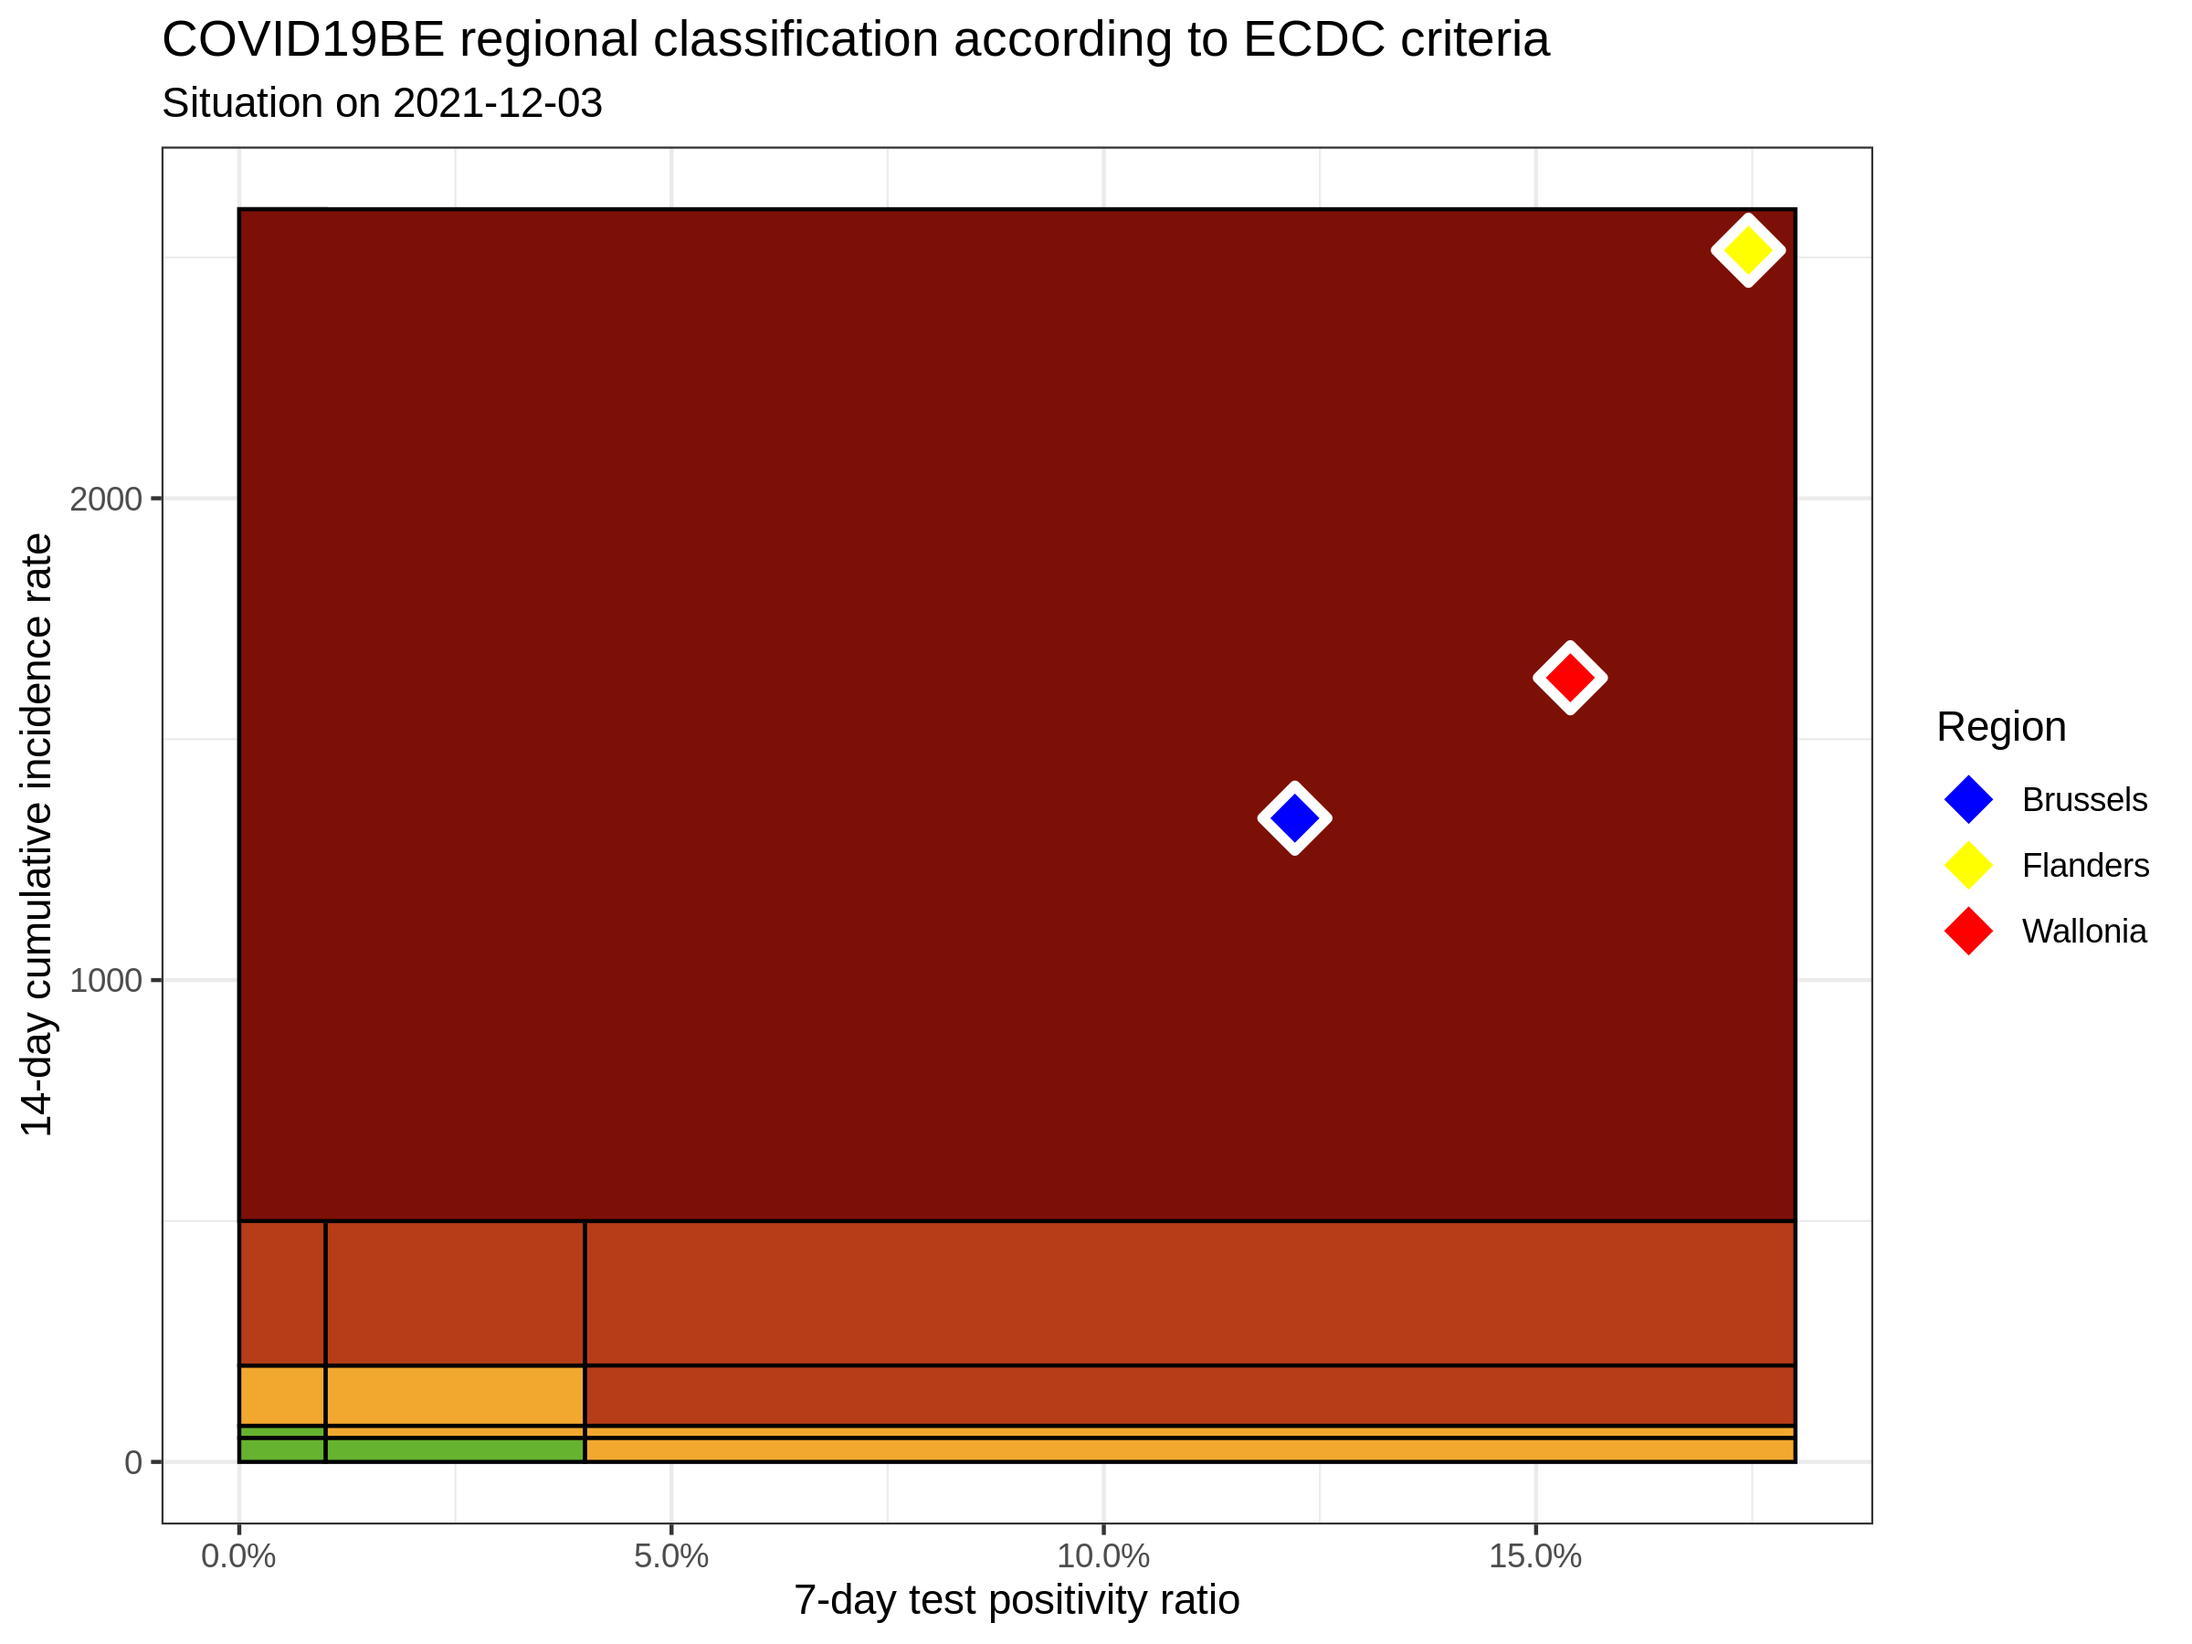
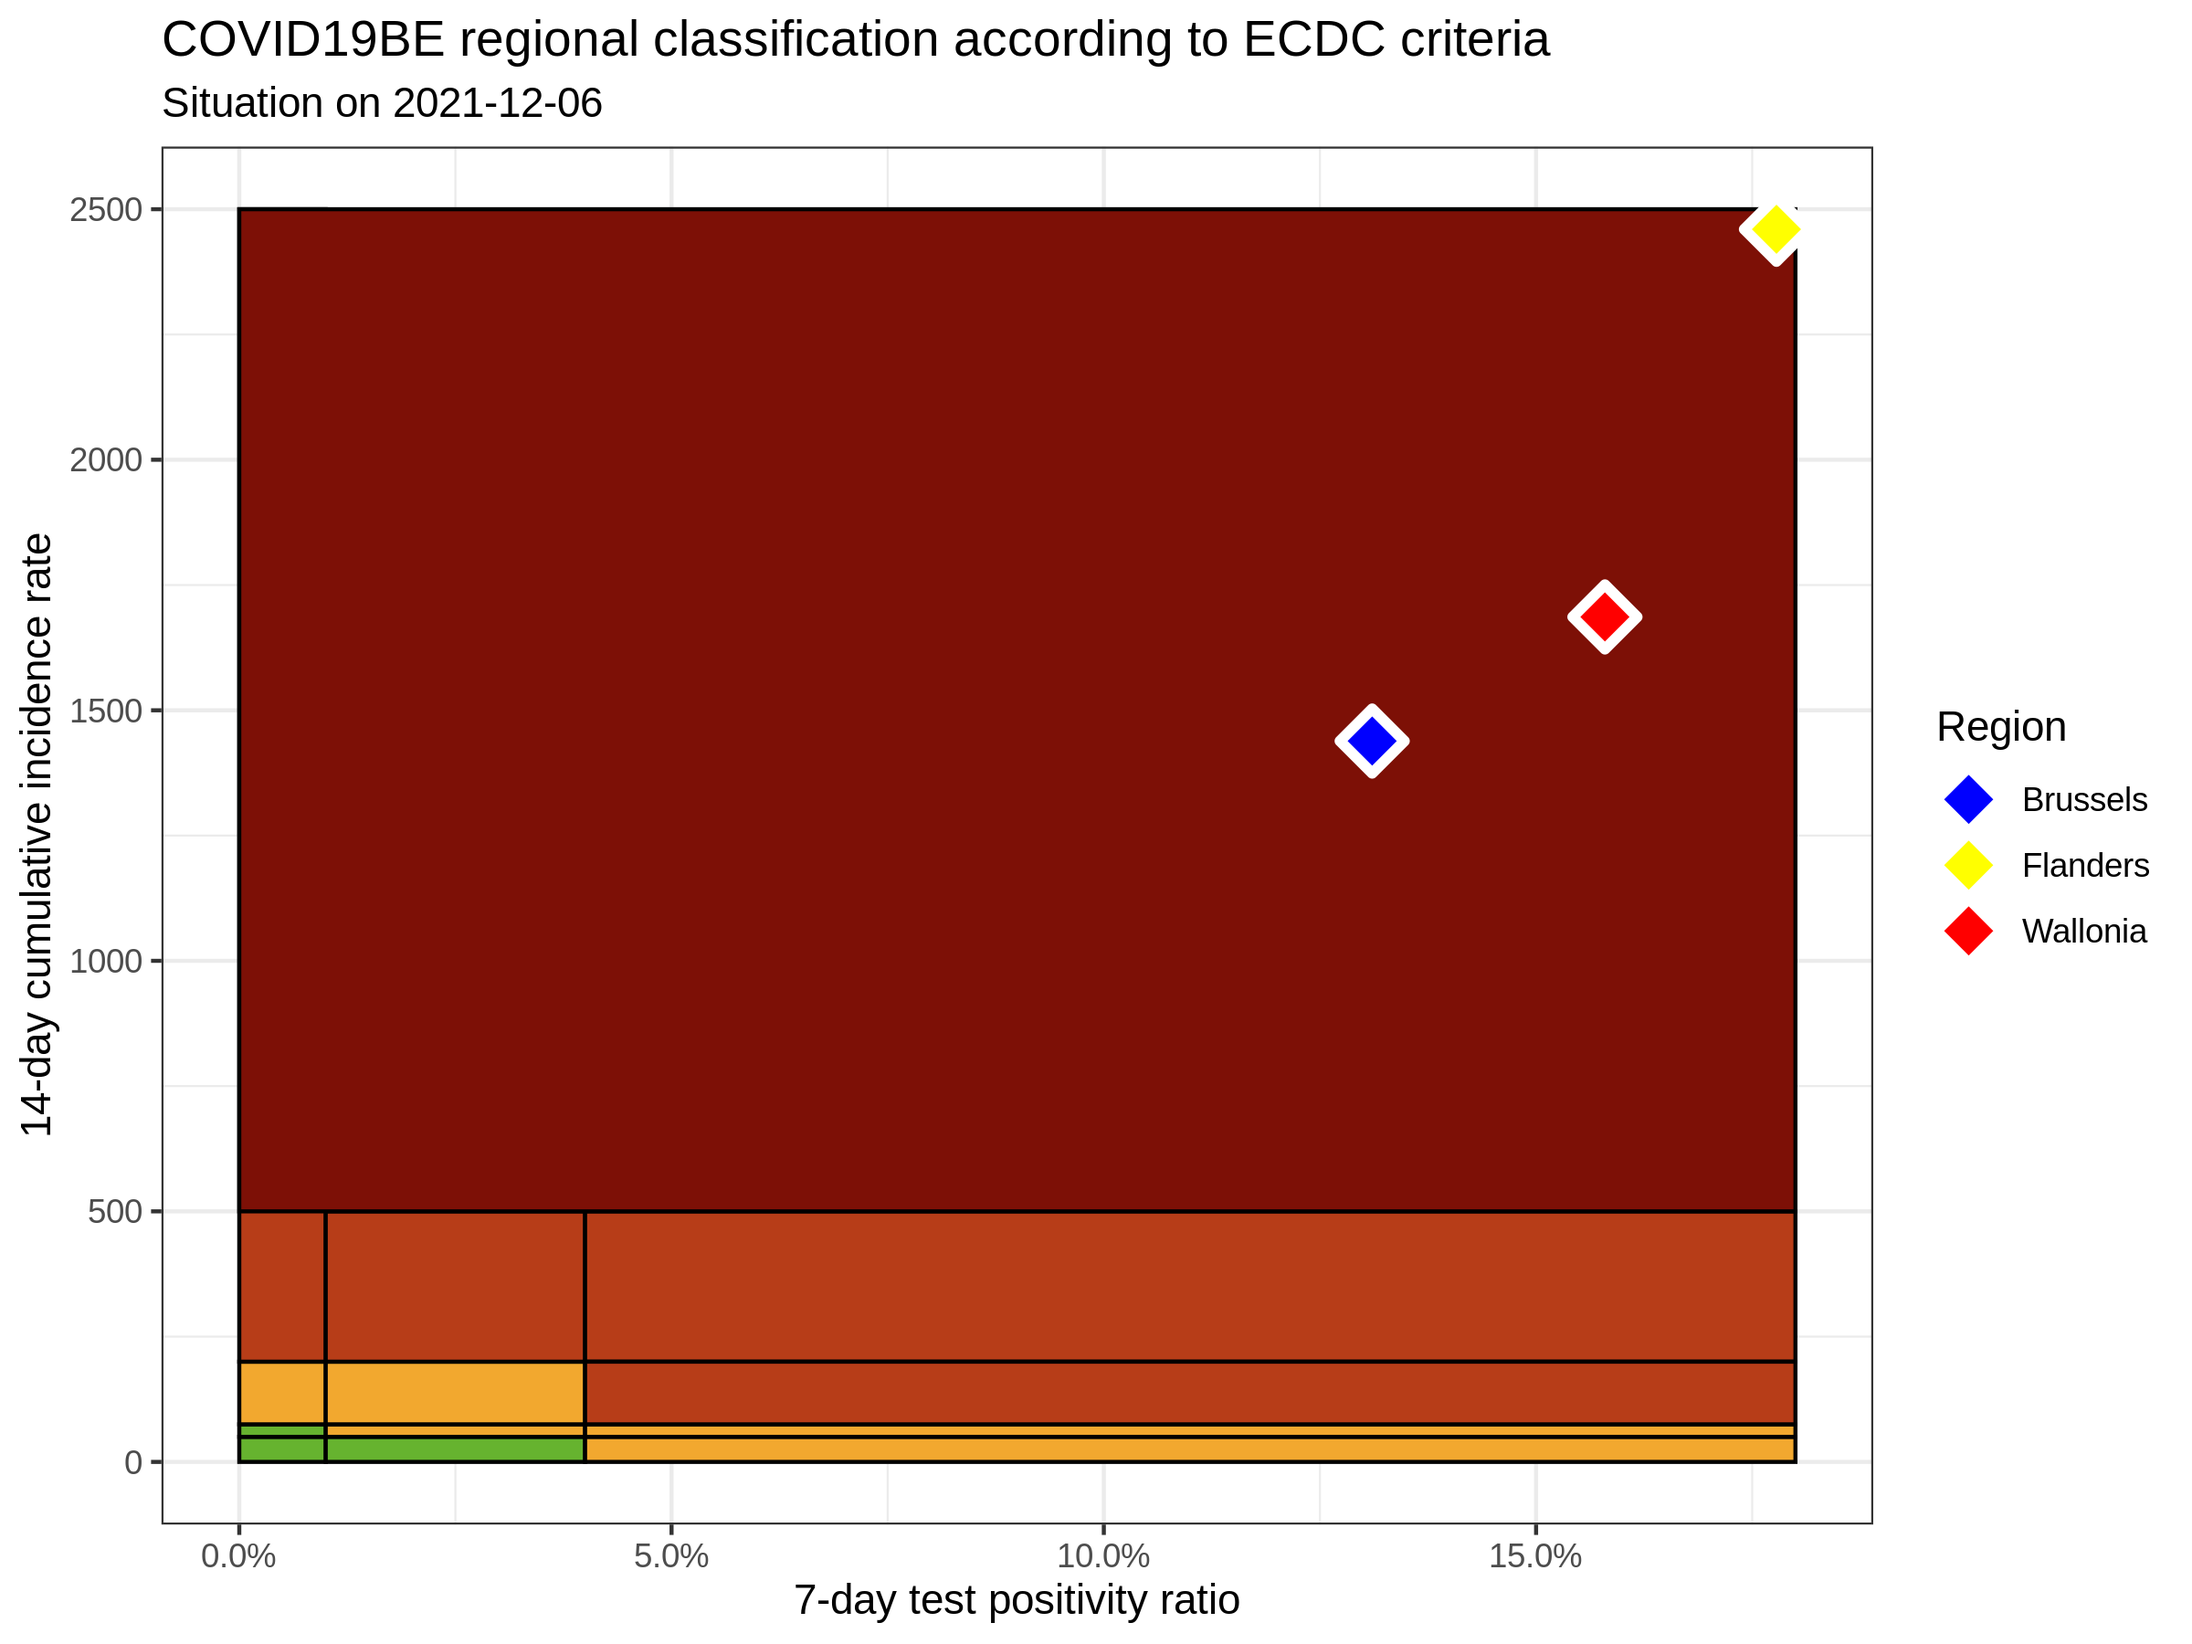
update situation

diff --git a/ecdc-trend/README.md b/ecdc-trend/README.md
@@ -11,9 +11,9 @@
 
 |          |  INC14 |  INC7 |   TST7 | TST\_POS7 | REGION   |     POP | INC14\_RT |       PR7 |          GR |
 | :------- | -----: | ----: | -----: | --------: | :------- | ------: | --------: | --------: | ----------: |
-| Brussels |  16300 |  8834 |  76887 |      9388 | Brussels | 1219970 |  1336.098 | 0.1221013 |   0.1832306 |
-| Flanders | 167312 | 83549 | 532441 |     92945 | Flanders | 6653062 |  2514.812 | 0.1745639 | \-0.0025548 |
-| Wallonia |  59374 | 31271 | 217419 |     33475 | Wallonia | 3648206 |  1627.485 | 0.1539654 |   0.1127282 |
+| Brussels |  17551 |  9631 |  78075 |     10231 | Brussels | 1219970 |  1438.642 | 0.1310407 |   0.2160354 |
+| Flanders | 163665 | 77426 | 491023 |     87306 | Flanders | 6653062 |  2459.995 | 0.1778043 | \-0.1021927 |
+| Wallonia |  61520 | 31864 | 219394 |     34656 | Wallonia | 3648206 |  1686.308 | 0.1579624 |   0.0744537 |
 
 ### Read more
 
